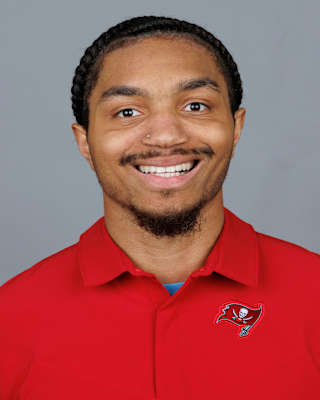
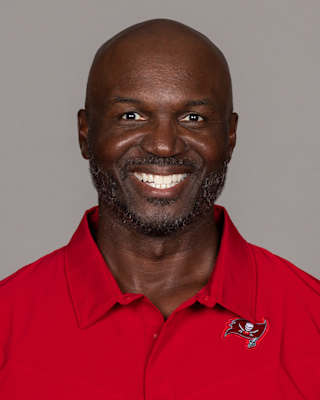
Correct Todd Bowles coach portrait match

diff --git a/images/coaches/portraits.js b/images/coaches/portraits.js
@@ -147,7 +147,7 @@ window.COACH_PORTRAITS = {
   "Todd Bowles": {
     "file": "todd-bowles.jpg",
     "page": "https://www.buccaneers.com/team/coaches-roster/",
-    "sourceImage": "https://static.clubs.nfl.com/image/upload/c_fill,g_face,w_320,h_400,q_auto,f_jpg/buccaneers/tmuakznphe87i2lz2kdv.jpg"
+    "sourceImage": "https://static.clubs.nfl.com/image/private/c_fill,g_face,w_320,h_400,q_auto,f_jpg/buccaneers/jpogwxmoztyg1pusjnum.jpg"
   },
   "Robert Saleh": {
     "file": "robert-saleh.jpg",
